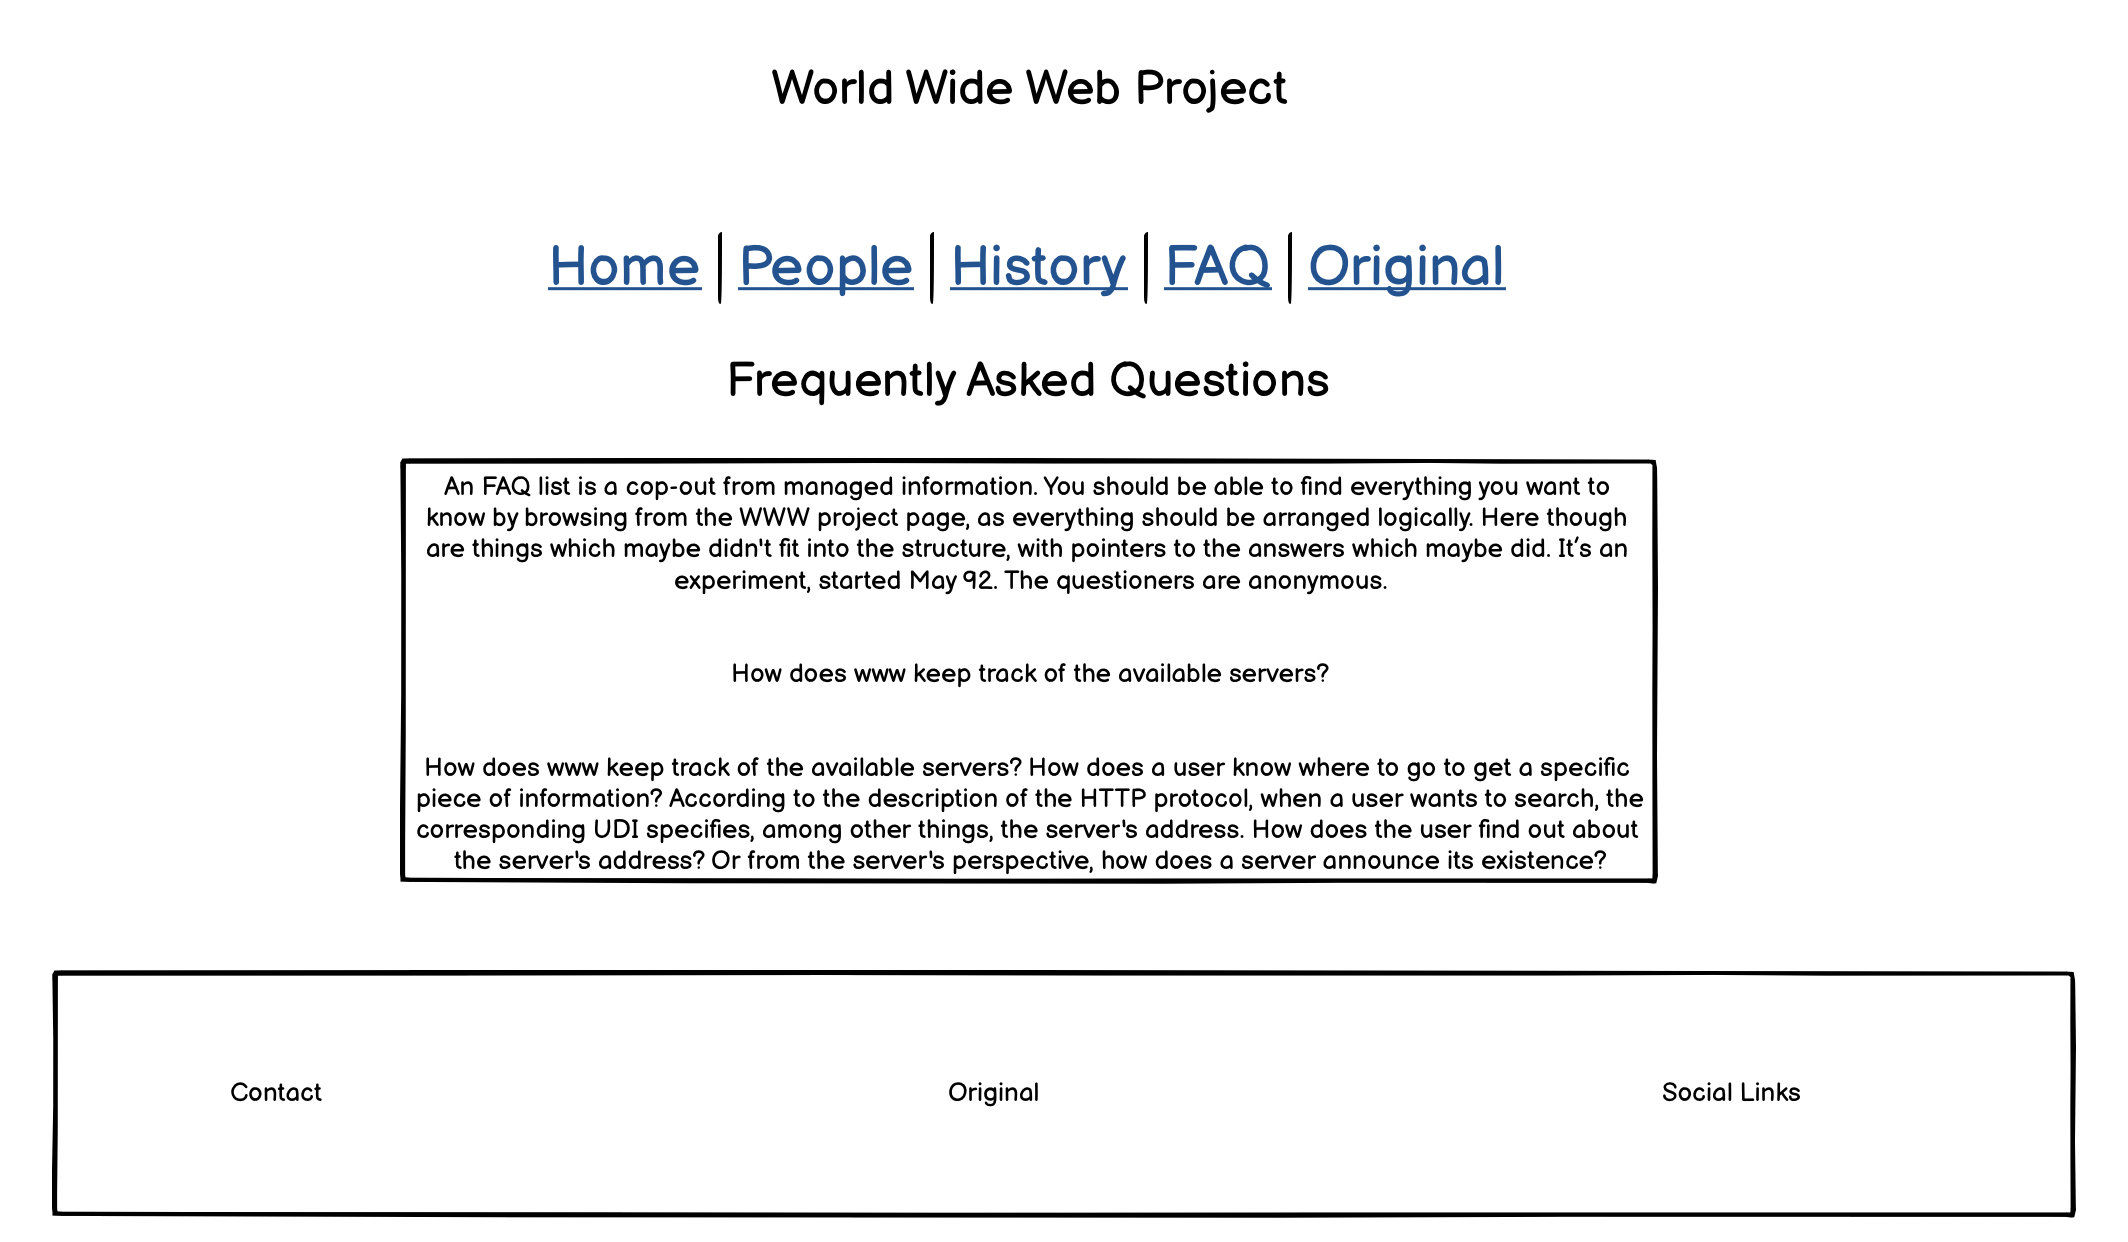
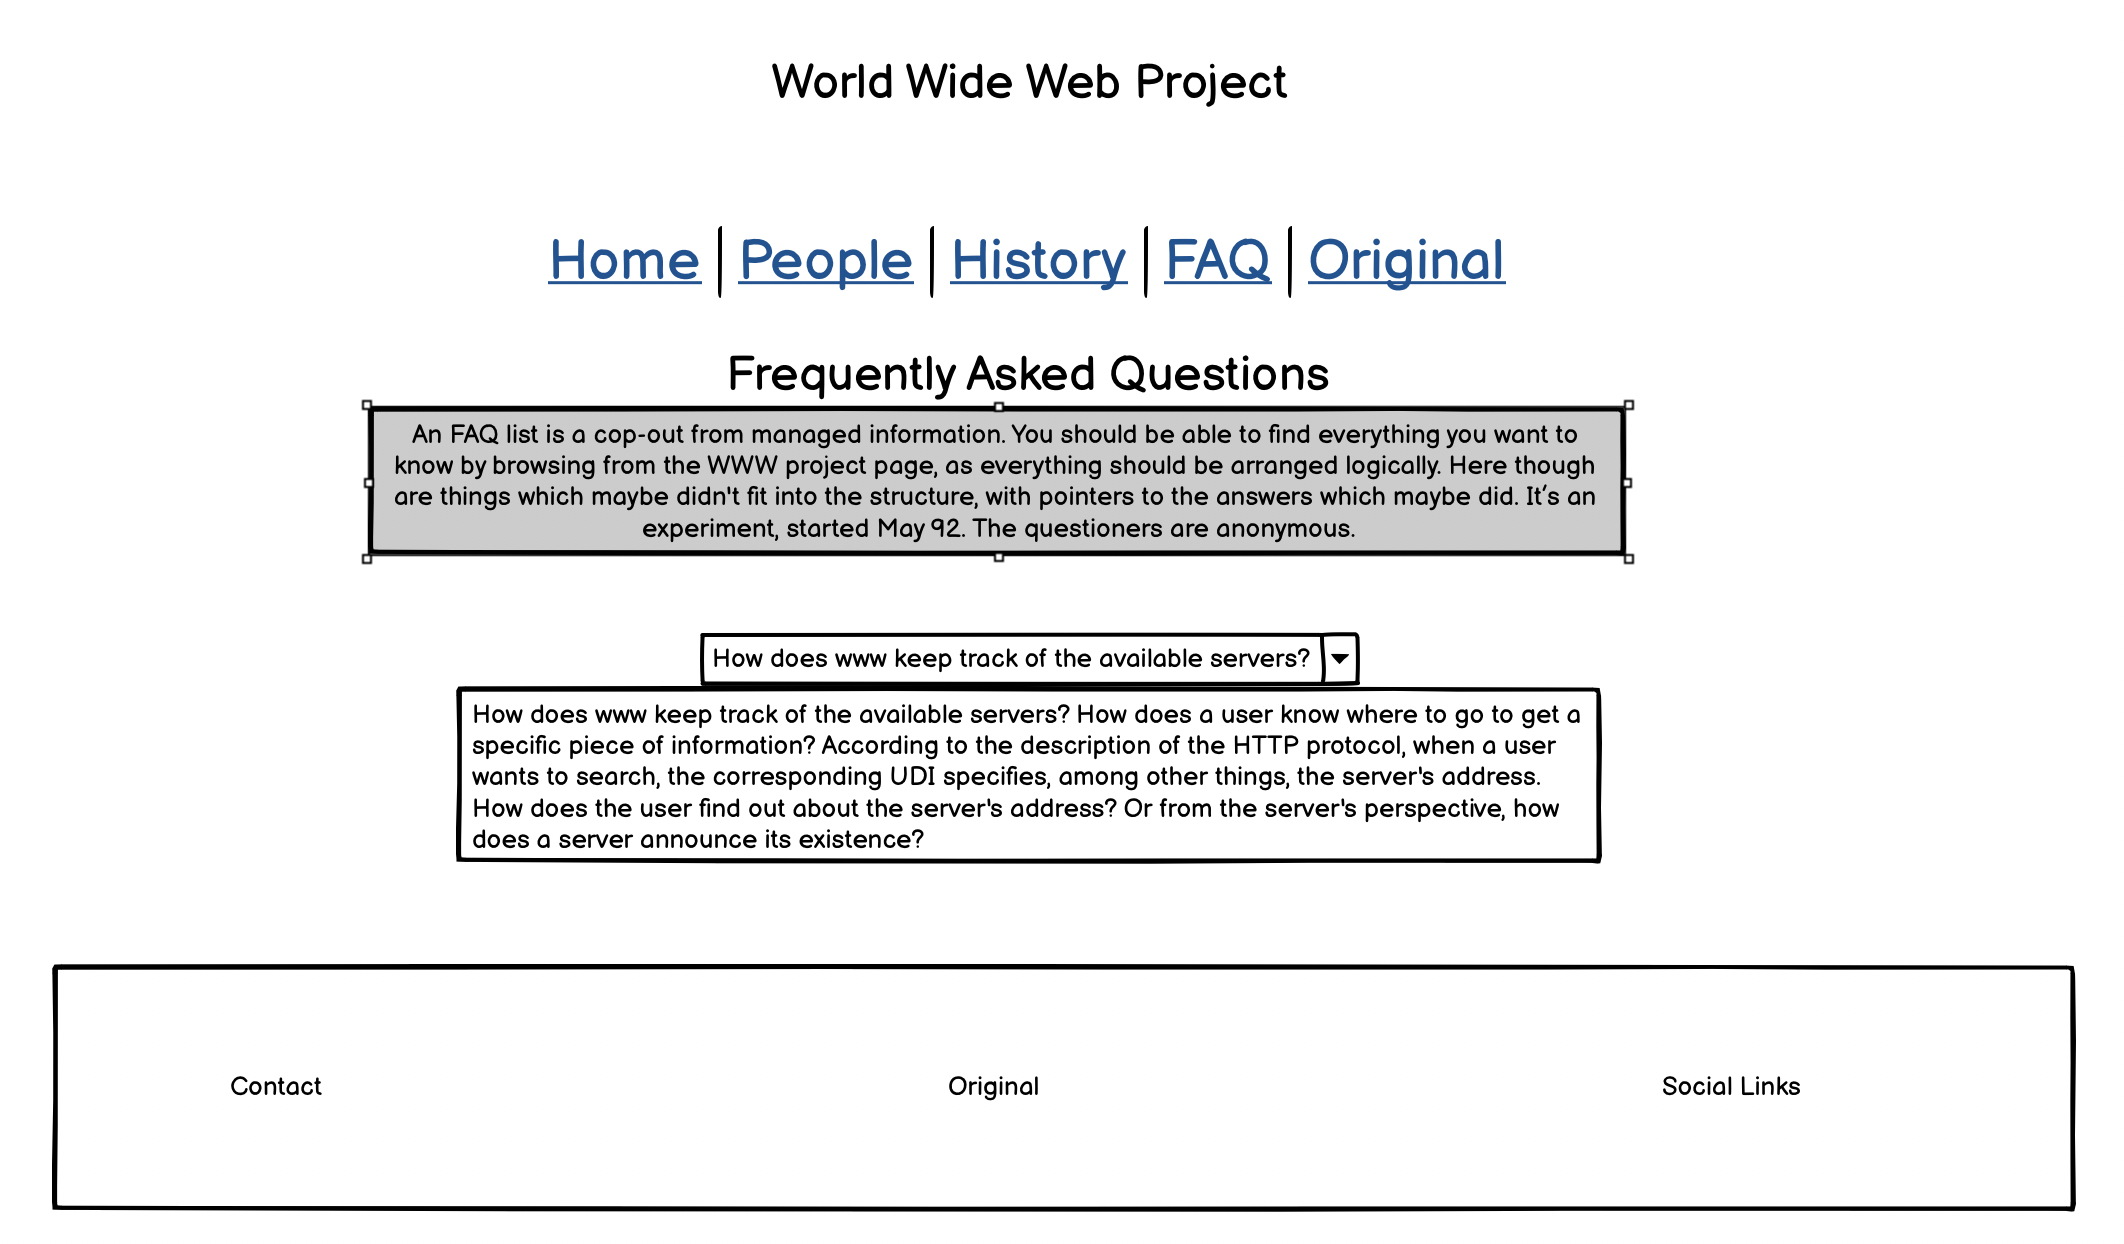
added contect to readme and replaced faq.png

diff --git a/README.md b/README.md
@@ -151,6 +151,7 @@ The background picture is the basis for the overall colour scheme.
 *   4 separate HTML pages.
 *   Fixed navigation bar.
 *   Introduction section animation.
+*   Toggleable buttons to reveal and collapse content.
 
 **Features Left to Implement when skills develop**
 
@@ -189,6 +190,11 @@ CSS -[ W3C](https://jigsaw.w3.org/css-validator/) - CSS Validation
 
 *   Ensure globe icon opens a new tab to the original webpage
 *   Ensure social links open a new tab to the designated social media site
+
+**Buttons**
+
+*   Navbar button replaces anchors on smaller screens and when pressed a dropdown menu allows for further navigation.
+*   FAQ accordion buttons all correctly drop down and collapse when clicked. 
 
 **Bugs**
 
